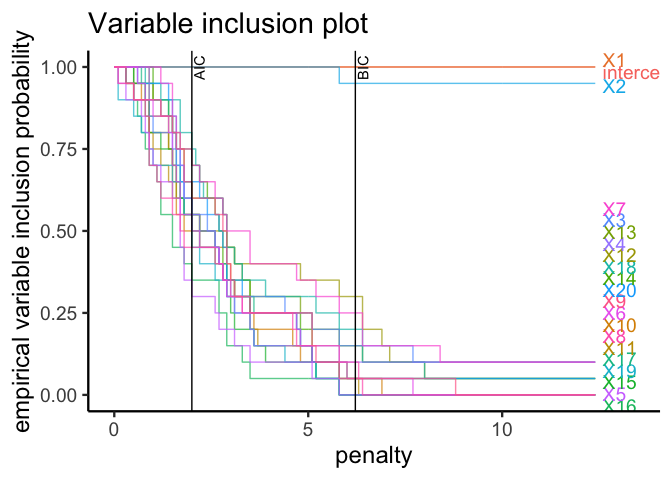
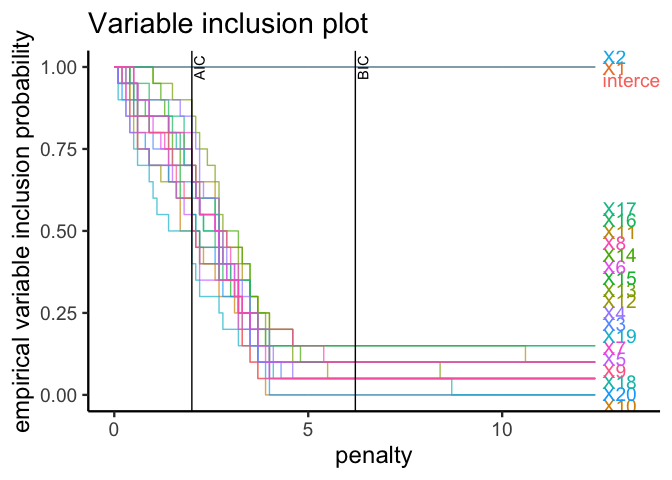
add vignettes

Changed region(s): [[0.1562, 0.125, 0.9688, 0.875], [0.5, 0.0938, 1.0, 0.2188]]

diff --git a/README.md b/README.md
@@ -46,7 +46,7 @@ regression models.
 library(APES)
 
 ## Simulating data
-set.seed(10)
+set.seed(123)
 n = 500
 p = 20
 k = 1:p
@@ -63,55 +63,55 @@ model = glm(y ~ ., data = data, family = "binomial")
 apes_result = apes(model = model)
 apes_result
 #> Time taken: 
-#> Time difference of 0.0001144012 mins
+#> Time difference of 0.000280869 mins
 #> 
 #>  APES model selection data frame: 
 #> # A tibble: 20 x 7
 #>    model_name  model_size ic_opt_models apes_mle_loglike mle_aic mle_bic status 
 #>    <chr>            <dbl> <chr>                    <dbl>   <dbl>   <dbl> <chr>  
-#>  1 apes_model…          2 ""                       -297.    599.    607. leaps_…
-#>  2 apes_model…          3 "apes_min_bi…            -270.    546.    558. leaps_…
-#>  3 apes_model…          4 ""                       -269.    545.    562. leaps_…
-#>  4 apes_model…          5 ""                       -267.    544.    565. leaps_…
-#>  5 apes_model…          6 ""                       -266.    545.    570. leaps_…
-#>  6 apes_model…          7 ""                       -266.    545.    575. leaps_…
-#>  7 apes_model…          8 ""                       -263.    543.    577. leaps_…
-#>  8 apes_model…          9 ""                       -262.    542.    580. leaps_…
-#>  9 apes_model…         10 ""                       -261.    543.    585. leaps_…
-#> 10 apes_model…         11 "apes_min_ai…            -260.    541.    587. leaps_…
-#> 11 apes_model…         12 ""                       -260.    543.    594. leaps_…
-#> 12 apes_model…         13 ""                       -258.    543.    598. leaps_…
-#> 13 apes_model…         14 ""                       -258.    544.    603. leaps_…
-#> 14 apes_model…         15 ""                       -257.    544.    608. leaps_…
-#> 15 apes_model…         16 ""                       -257.    546.    614. leaps_…
-#> 16 apes_model…         17 ""                       -257.    548.    620. leaps_…
-#> 17 apes_model…         18 ""                       -257.    550.    626. leaps_…
-#> 18 apes_model…         19 ""                       -257.    551.    631. leaps_…
-#> 19 apes_model…         20 ""                       -257.    553.    638. leaps_…
-#> 20 apes_model…         21 ""                       -256.    555.    643. leaps_…
+#>  1 apes_model…          2 ""                       -296.    597.    605. leaps_…
+#>  2 apes_model…          3 "apes_min_bi…            -251.    507.    520. leaps_…
+#>  3 apes_model…          4 ""                       -250.    508.    524. leaps_…
+#>  4 apes_model…          5 ""                       -248.    506.    527. leaps_…
+#>  5 apes_model…          6 ""                       -246.    503.    529. leaps_…
+#>  6 apes_model…          7 ""                       -245.    504.    533. leaps_…
+#>  7 apes_model…          8 "apes_min_ai…            -243.    502.    536. leaps_…
+#>  8 apes_model…          9 ""                       -243.    504.    542. leaps_…
+#>  9 apes_model…         10 ""                       -242.    504.    546. leaps_…
+#> 10 apes_model…         11 ""                       -242.    506.    552. leaps_…
+#> 11 apes_model…         12 ""                       -242.    508.    558. leaps_…
+#> 12 apes_model…         13 ""                       -242.    509.    564. leaps_…
+#> 13 apes_model…         14 ""                       -242.    511.    570. leaps_…
+#> 14 apes_model…         15 ""                       -242.    513.    576. leaps_…
+#> 15 apes_model…         16 ""                       -242.    515.    582. leaps_…
+#> 16 apes_model…         17 ""                       -241.    517.    589. leaps_…
+#> 17 apes_model…         18 ""                       -241.    519.    595. leaps_…
+#> 18 apes_model…         19 ""                       -241.    521.    601. leaps_…
+#> 19 apes_model…         20 ""                       -241.    523.    607. leaps_…
+#> 20 apes_model…         21 ""                       -240.    523.    611. leaps_…
 apes_result$selected_model_beta
 #>           apes_min_aic apes_min_bic
-#> intercept   -0.1606897   -0.1920528
-#> X1           1.0891026    1.0773367
-#> X2          -0.8247133   -0.8352282
-#> X3           0.0000000    0.0000000
-#> X4           0.1467194    0.0000000
-#> X5           0.0000000    0.0000000
-#> X6           0.0000000    0.0000000
-#> X7           0.0000000    0.0000000
-#> X8           0.1607424    0.0000000
-#> X9           0.1913598    0.0000000
-#> X10          0.0000000    0.0000000
-#> X11         -0.1001883    0.0000000
-#> X12          0.0000000    0.0000000
-#> X13          0.1869966    0.0000000
-#> X14          0.0000000    0.0000000
-#> X15          0.0000000    0.0000000
-#> X16          0.0000000    0.0000000
-#> X17          0.2199132    0.0000000
-#> X18          0.2186733    0.0000000
-#> X19          0.0000000    0.0000000
-#> X20         -0.2280918    0.0000000
+#> intercept   0.08157786   0.06389384
+#> X1          1.28437711   1.22646979
+#> X2         -1.13676644  -1.09257247
+#> X3          0.00000000   0.00000000
+#> X4         -0.16082625   0.00000000
+#> X5          0.00000000   0.00000000
+#> X6          0.00000000   0.00000000
+#> X7          0.00000000   0.00000000
+#> X8          0.00000000   0.00000000
+#> X9          0.00000000   0.00000000
+#> X10         0.00000000   0.00000000
+#> X11         0.22056007   0.00000000
+#> X12         0.00000000   0.00000000
+#> X13         0.25189145   0.00000000
+#> X14        -0.16229823   0.00000000
+#> X15         0.00000000   0.00000000
+#> X16         0.20846586   0.00000000
+#> X17         0.00000000   0.00000000
+#> X18         0.00000000   0.00000000
+#> X19         0.00000000   0.00000000
+#> X20         0.00000000   0.00000000
 ```
 
 The best model of each model size are stored and the best model of all
@@ -128,7 +128,7 @@ displays the bootstrapped results.
 ``` r
 boot_result = apes(model = model, n_boot = 20)
 boot_result
-#> Time taken:  0.03168368  minutes 
+#> Time taken:  0.0294419  minutes 
 #> Total number of bootstrap APES results:  20
 plot(boot_result, type = "vip")
 ```
